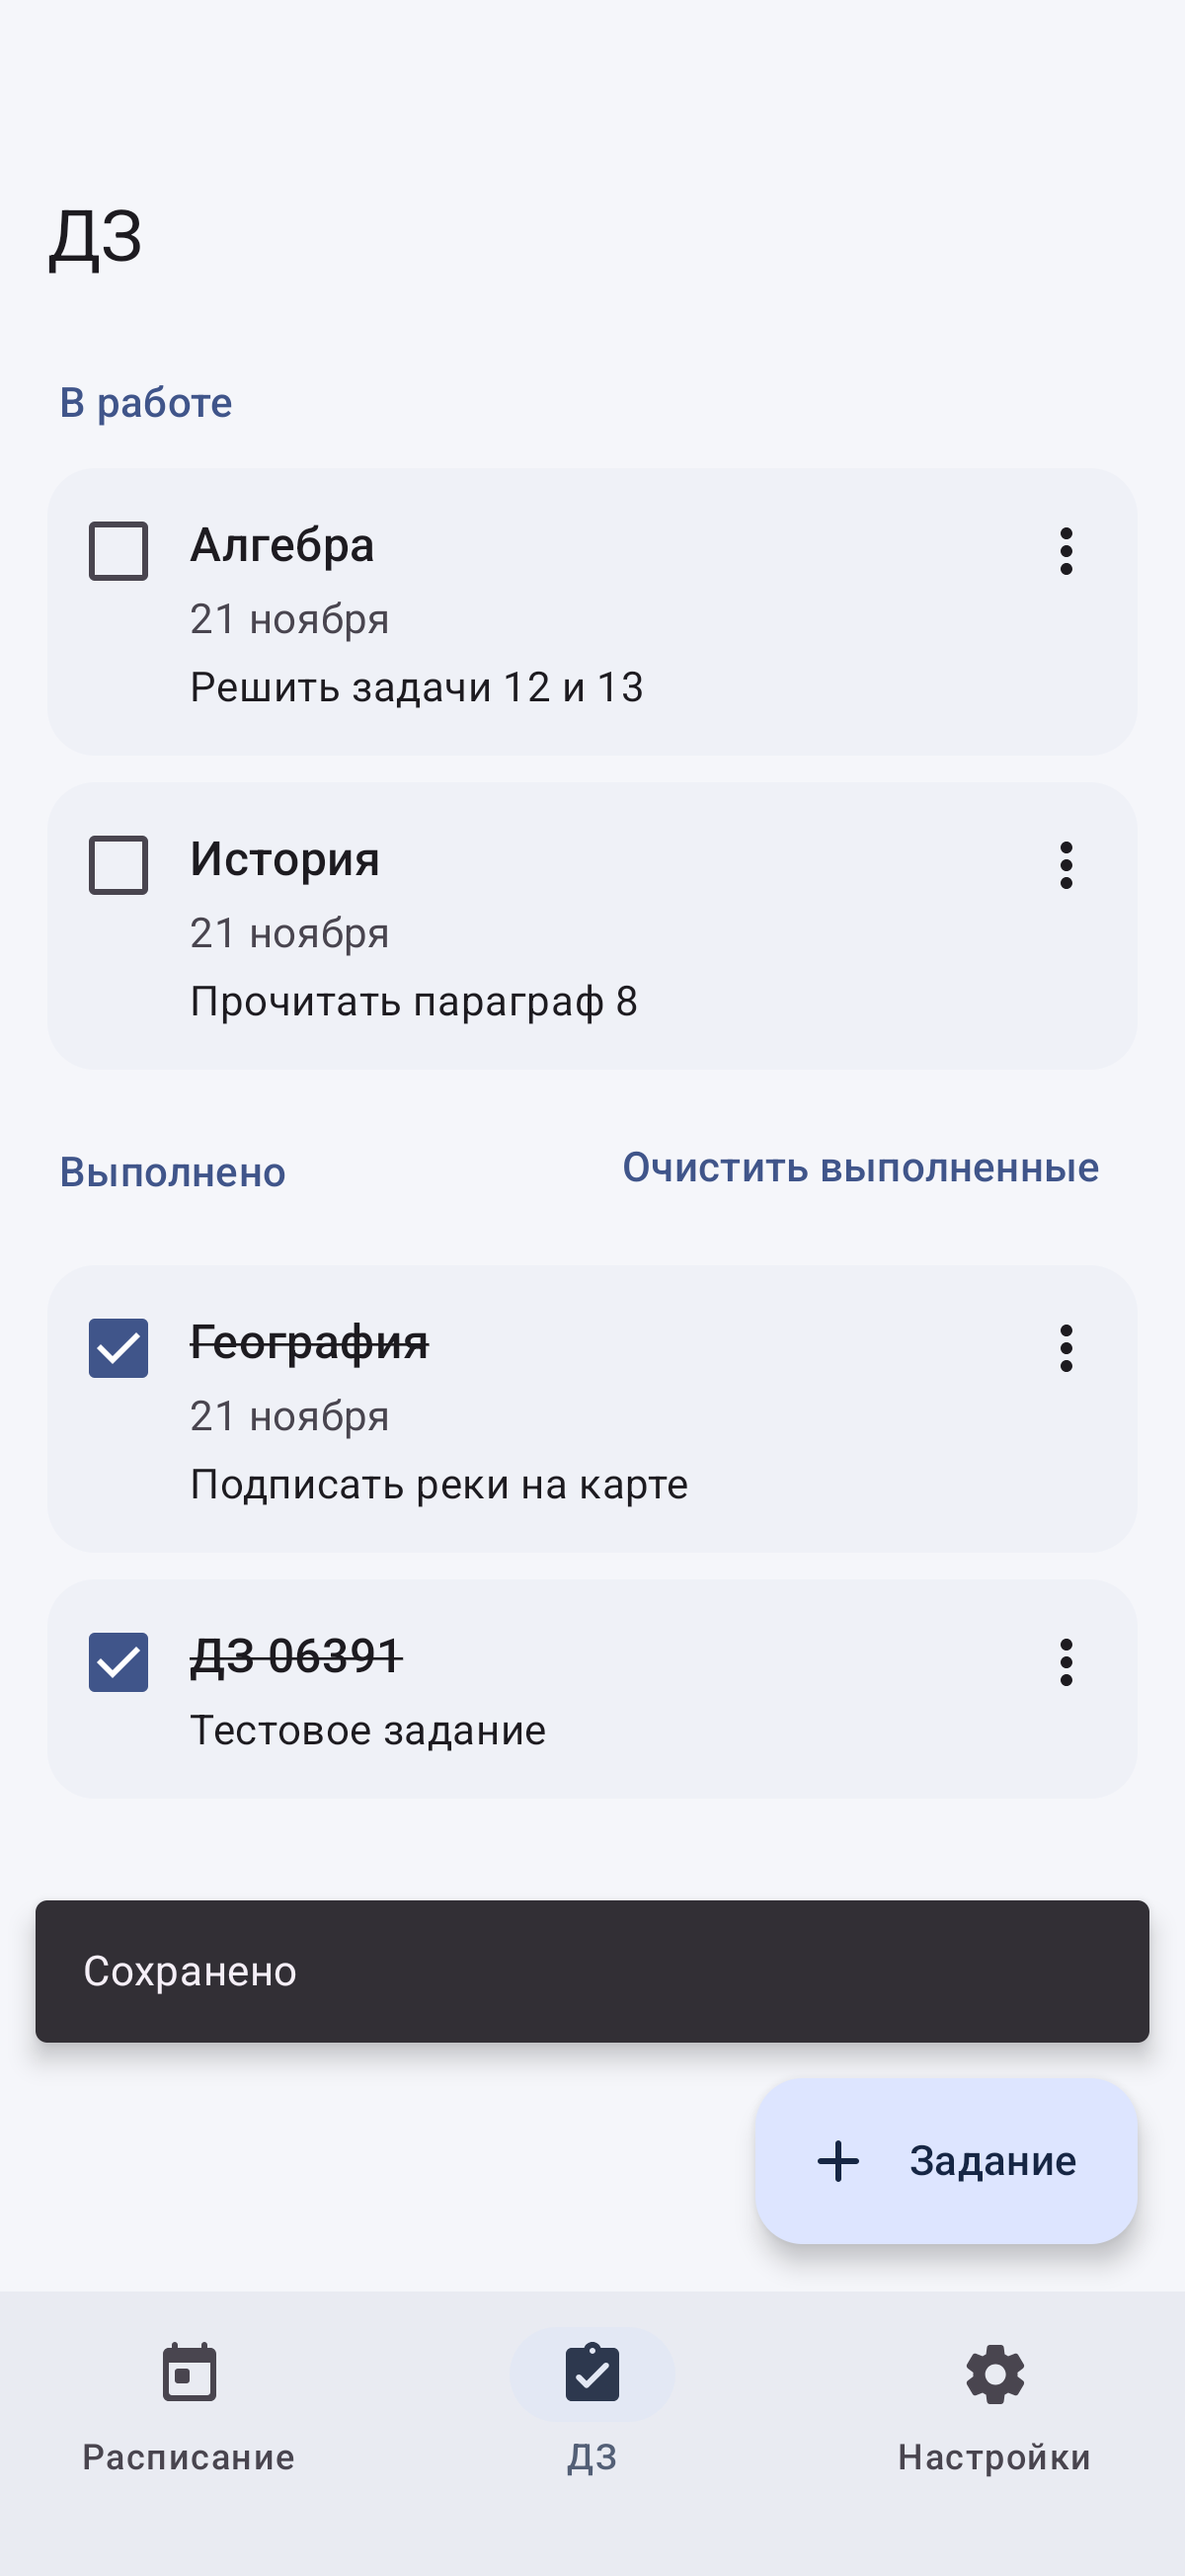
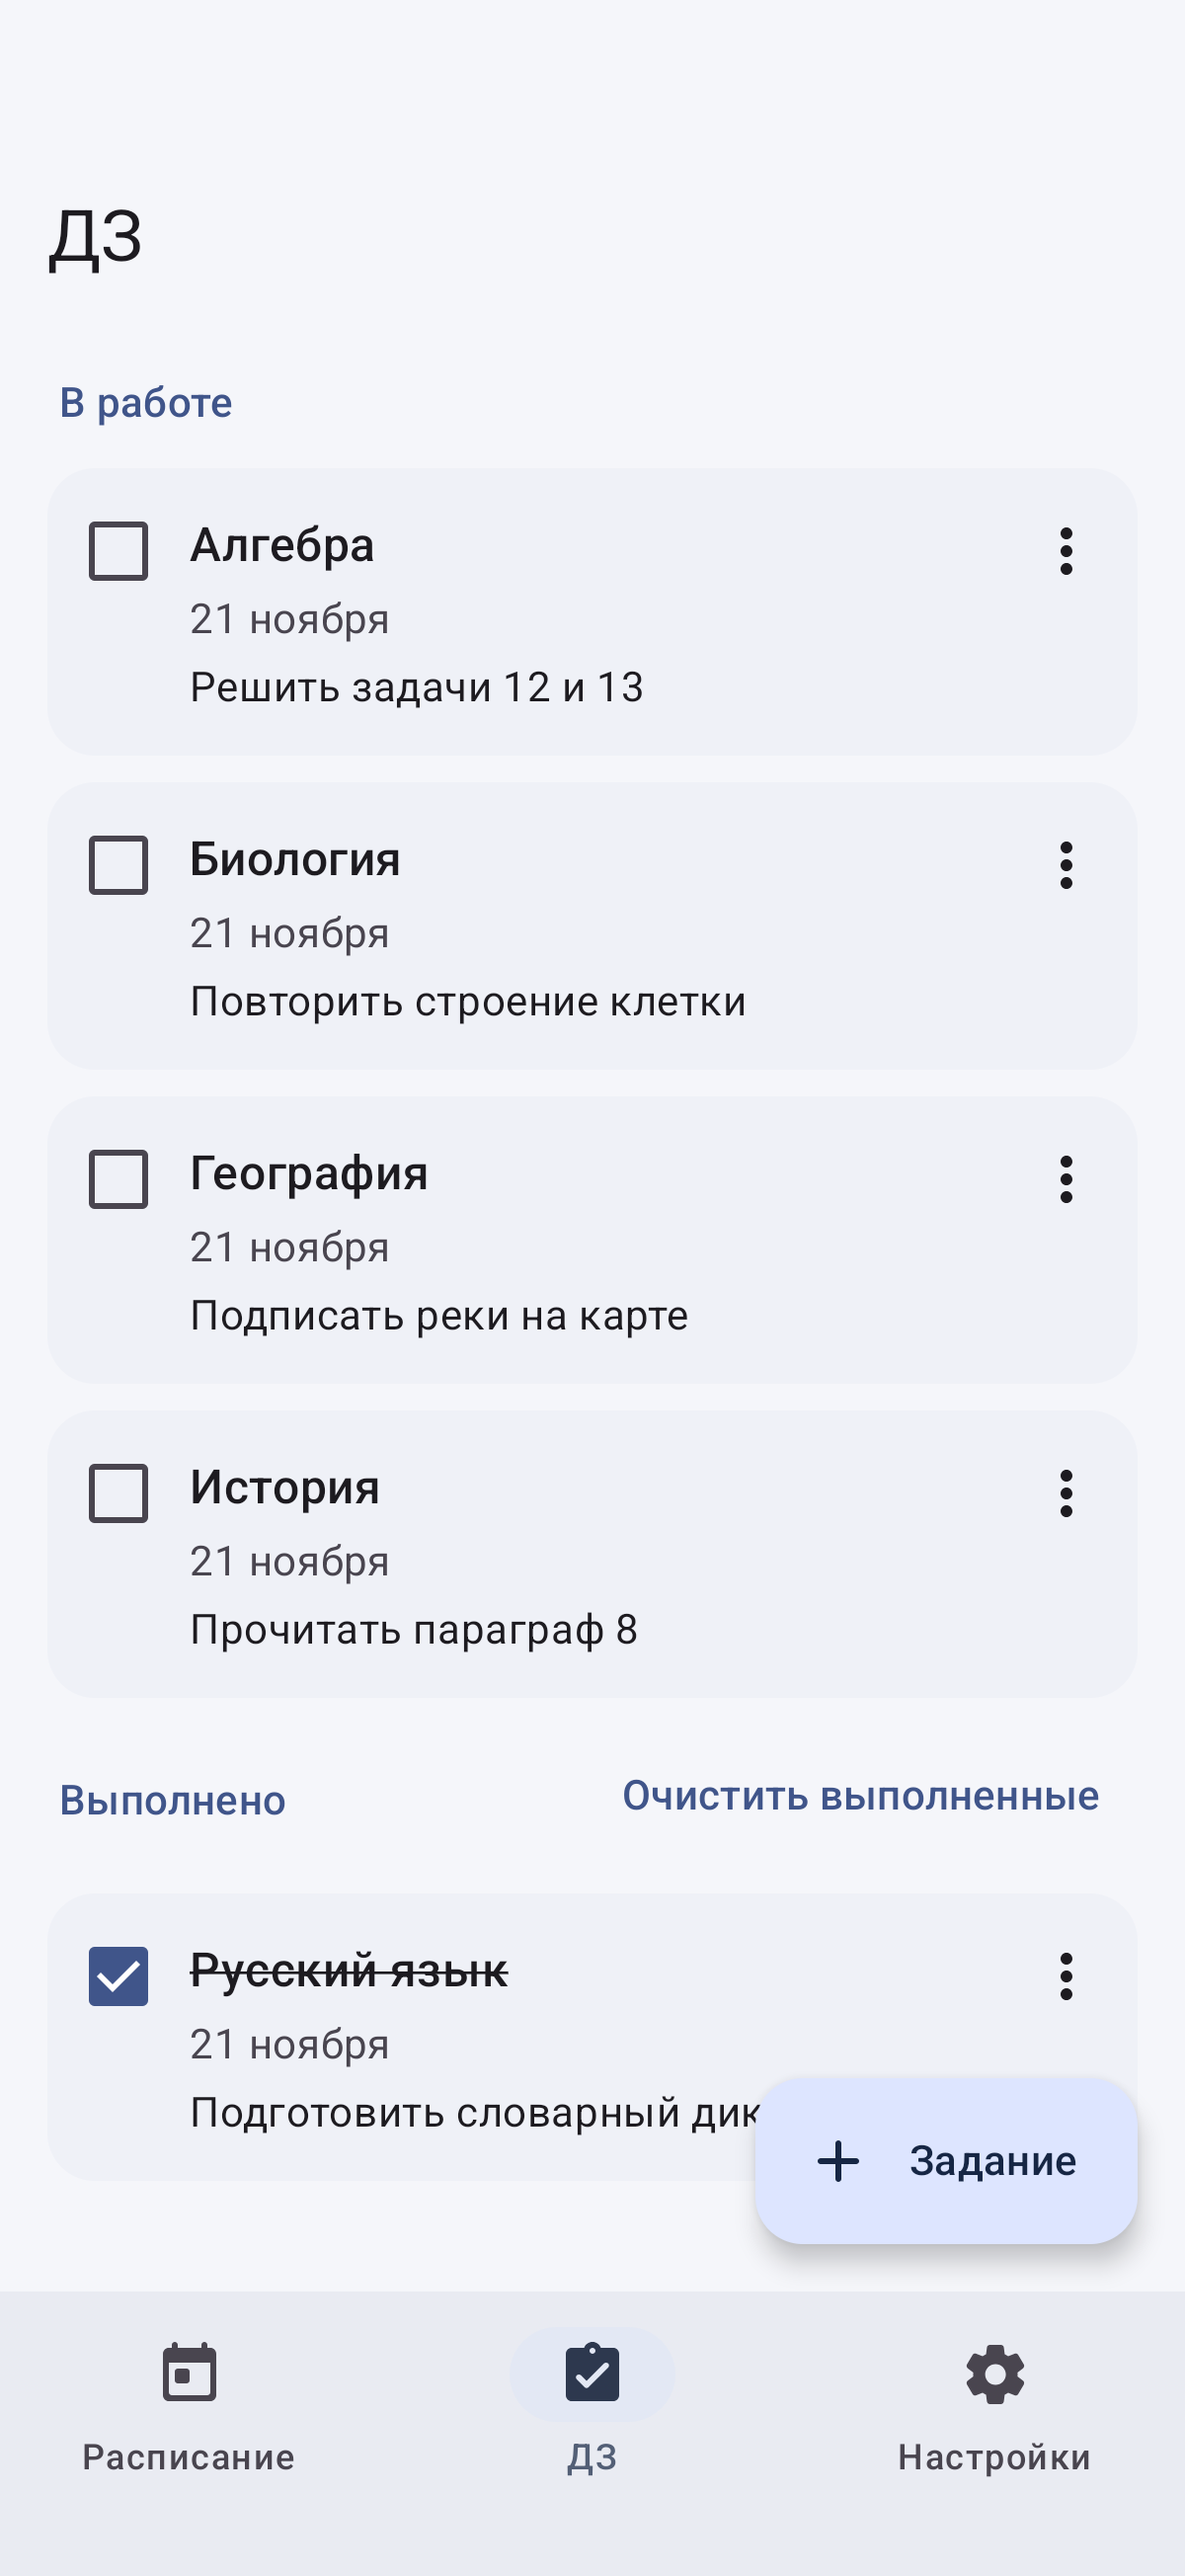
Подготовить инфраструктуру School Day 1.0.0

diff --git a/ci/source.py b/ci/source.py
@@ -30,10 +30,10 @@ def main():
     parser.add_argument("--ref", required=True)
     parser.add_argument("--expected", default="")
     parser.add_argument("--platform", choices=("android", "flatpak"), required=True)
-    parser.add_argument("--mode", choices=("test", "prepare", "draft"), default="test")
+    parser.add_argument("--mode", choices=("test", "candidate", "prepare", "draft"), default="test")
     parser.add_argument("--directory", type=Path, required=True)
     args = parser.parse_args()
-    ref, expected, version_from_tag = resolve(args.ref, args.expected, args.mode != "test")
+    ref, expected, version_from_tag = resolve(args.ref, args.expected, args.mode in ("prepare", "draft"))
     directory = args.directory.resolve()
     directory.mkdir()
     git(directory, "init", "--quiet")
@@ -52,7 +52,7 @@ def main():
     missing = [file for file in files if not (directory / file).is_file()]
     if missing:
         raise ValueError(f"{args.platform} sources are absent in upstream commit {commit}: {', '.join(missing)}")
-    if args.platform == "flatpak" and args.mode != "test" and not (directory / "packaging/flatpak/prepare-repository.py").is_file():
+    if args.platform == "flatpak" and args.mode in ("prepare", "draft") and not (directory / "packaging/flatpak/prepare-repository.py").is_file():
         raise ValueError("selected Flatpak source has no signed repository preparation helper")
     metadata = {"repo": "sqeezy-53/school-day", "ref": args.ref, "sha": commit,
                 "version": version, "platform": args.platform, "mode": args.mode}

diff --git a/README.md b/README.md
@@ -1,29 +1,31 @@
-<img src="https://raw.githubusercontent.com/sqeezy-53/school-day/8e05f78edee3728af07e1d8a31701f5b99bfae0b/packaging/icons/io.github.sqeezy_53.school-day.svg" width="72" alt="Логотип">
+<img src="https://raw.githubusercontent.com/sqeezy-53/school-day/c4da2bb43e80a1939f544ef2beeb92fb7aef57e4/packaging/icons/io.github.sqeezy_53.school-day.svg" width="72" alt="Логотип">
 
 # Школьный день
 
-Бесплатная программа с открытым исходным кодом для управления расписанием уроков и домашними заданиями.
+Бесплатное приложение для расписания уроков и домашних заданий на Android. Данные автоматически синхронизируются с компьютером в одной локальной сети.
 
 <p>
-  <img src="docs/screenshots/schedule.png" width="250" alt="Расписание на Android">
-  <img src="docs/screenshots/homework.png" width="250" alt="Домашние задания на Android">
+  <img src="docs/screenshots/schedule.png" width="230" alt="Расписание на Android">
+  <img src="docs/screenshots/homework.png" width="230" alt="Домашние задания на Android">
 </p>
+
+<details>
+<summary>Настройки приложения</summary>
+
+<img src="docs/screenshots/settings.png" width="230" alt="Настройки School Day на Android">
+
+</details>
 
 ## Установка
 
-**Android 8.0 и новее.** После выхода версии скачайте APK со страницы [выпусков](https://github.com/sqeezy-53/school-day-android/releases) и откройте его на телефоне. Если Android попросит разрешить установку из этого источника, подтвердите её в системном диалоге.
+**Android 8.0 и новее.** После выхода версии скачайте APK со [страницы выпусков](https://github.com/sqeezy-53/school-day-android/releases) и откройте его на телефоне. Если Android запросит разрешение на установку из этого источника, подтвердите её в системном диалоге.
 
 Для обновления откройте APK новой версии.
 
 ## Участие в проекте
 
-Нашли ошибку или хотите предложить улучшение?
-Создайте [Issue](https://github.com/sqeezy-53/school-day/issues).
-
-Хотите помочь с разработкой? Отправьте Pull Request.
+Нашли ошибку? Создайте [Issue](https://github.com/sqeezy-53/school-day/issues) в основном репозитории.
 
 [Сборка и выпуск](docs/release.md)
 
-### Лицензия
-
-Проект распространяется по лицензии GPL-3.0.
+Проект распространяется по лицензии GPL-3.0-only.

diff --git a/docs/release.md b/docs/release.md
@@ -17,3 +17,5 @@ Workflow «Android из фиксированных исходников» при
 ## Будущая проверка обновлений
 
 Клиент может получать метаданные опубликованного канала по HTTPS, сравнивать versionCode и проверять пакет, SHA-256 и доверенный сертификат до передачи APK системному установщику. В приватном репозитории метаданные доступны авторизованным участникам. Токены доступа к приватному репозиторию не входят в приложение. Встроенный Android-updater пока не включён.
+
+Режим candidate тестирует неподписанный Release APK из полного SHA до выпуска тега. Подготовка постоянного ключа и защищённой копии описана в [инструкции основного проекта](https://github.com/sqeezy-53/school-day/blob/release/1.0.0/docs/signing.md).
